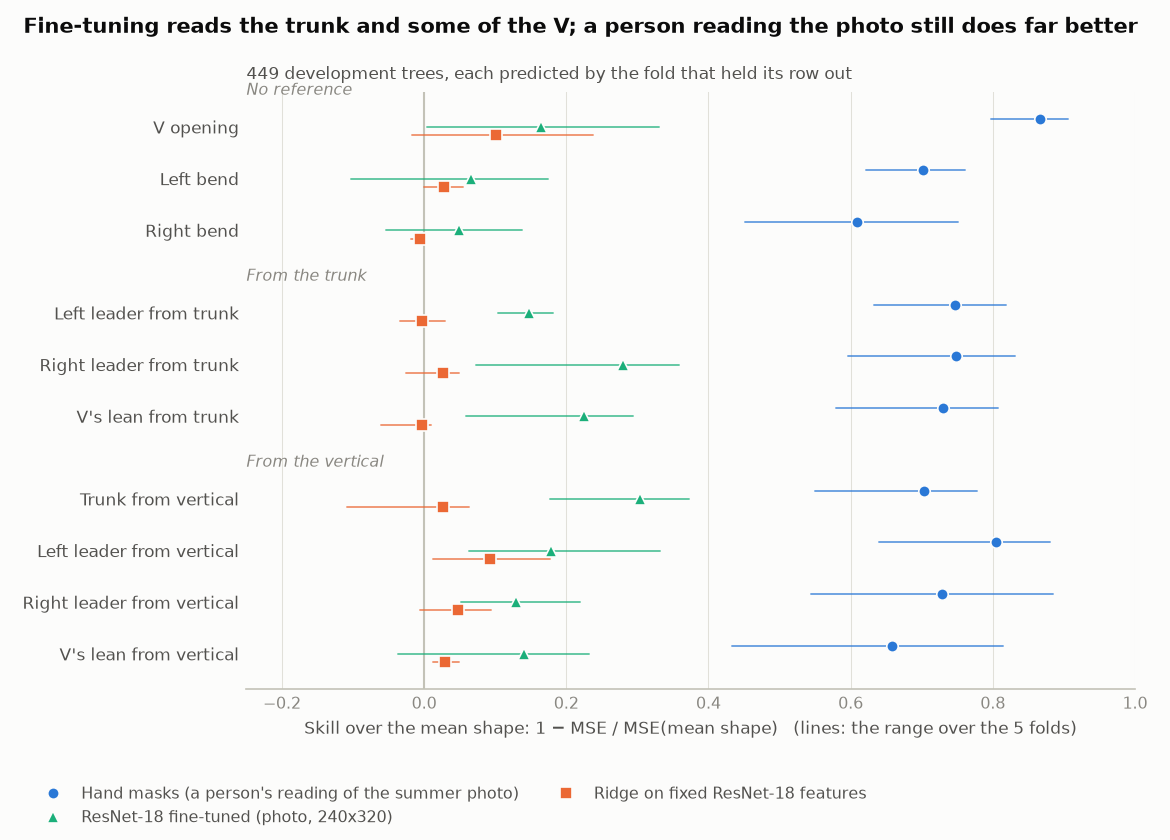
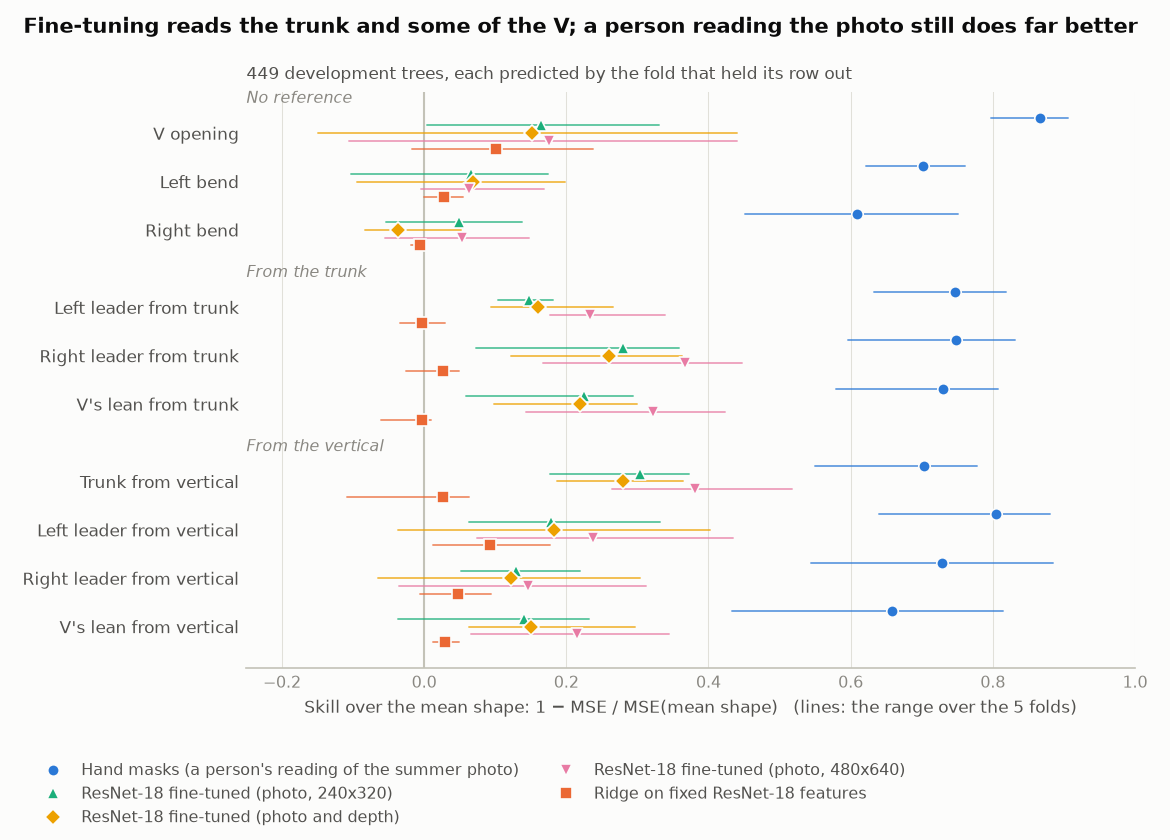
Write up the depth and full-size CNN runs, compared tree by tree
The student's two runs with more input: the summer depth as a fourth channel
adds nothing (no measure improves tree by tree; the right bend gets slightly
worse, p = 0.008), as expected of a smooth canopy surface. The photo at
480x640 raises the skill by 0.06-0.10 on six measures, in 4-5 of 5 folds on
most, and tree by tree significantly on three (the left leader from the trunk,
the left leader's tilt, the V's lean from vertical); the trunk's tilt rises in
all folds (+0.30 to +0.38) by fewer large misses rather than closer typical
trees. The V opening and the bends do not move (+0.18 at best, against +0.87
for the hand masks). All three runs are reported, since choosing the best on
the same folds would flatter it.

Claude-Session: https://claude.ai/code/session_01AjtAHVwQsGigb7XuCmLiB6

diff --git a/docs/results/shape/README.md b/docs/results/shape/README.md
@@ -301,8 +301,55 @@ any result):
   but the gap stays. One row group is much harder: rows 1, 8 and 15, held out
   within fold 5, stay at 1.3 against 0.7–0.8.
 
-`docs/figures/shape_cnn_skill.png` compares the three with the range over the
-folds.
+### More input: the summer depth, and the photo at full size
+
+The student's choice after the first run. The recipe was kept the same:
+- **Depth:** the summer depth as a fourth channel, its first-layer weights
+  starting as the mean of the colour weights, no colour jitter.
+- **Full size:** the photo at 480x640, four times the pixels.
+
+(MAE / skill; ◆ = better than the first run tree by tree, Wilcoxon p < 0.01)
+
+| Measure | Photo, 240x320 | Photo and depth | Photo, 480x640 | Hand masks |
+|---|---|---|---|---|
+| V opening | 8.9° / +0.16 | 8.8° / +0.15 | 8.7° / +0.18 | 3.3° / +0.87 |
+| Left bend | 9.1° / +0.07 | 8.9° / +0.07 | 8.9° / +0.06 | 5.1° / +0.70 |
+| Right bend | 8.6° / +0.05 | 9.1° / −0.04 | 8.7° / +0.05 | 5.2° / +0.61 |
+| Left leader from trunk | 11.8° / +0.15 | 11.5° / +0.16 | 11.2° / +0.23 ◆ | 6.3° / +0.75 |
+| Right leader from trunk | 11.3° / +0.28 | 11.5° / +0.26 | 11.0° / +0.37 | 6.4° / +0.75 |
+| V's lean from trunk | 10.6° / +0.22 | 10.6° / +0.22 | 10.1° / +0.32 | 6.1° / +0.73 |
+| Trunk from vertical | 8.8° / +0.30 | 8.9° / +0.28 | 8.5° / +0.38 | 5.7° / +0.70 |
+| Left leader from vertical | 6.3° / +0.18 | 6.2° / +0.18 | 5.9° / +0.24 ◆ | 3.1° / +0.80 |
+| Right leader from vertical | 6.4° / +0.13 | 6.4° / +0.12 | 6.2° / +0.15 | 3.1° / +0.73 |
+| V's lean from vertical | 4.5° / +0.14 | 4.4° / +0.15 | 4.3° / +0.22 ◆ | 2.7° / +0.66 |
+
+Each run was compared with the first on the same trees (`--replot` with
+several folders; `docs/results/shape_cnn_runs.json`), because the folds'
+skills swing widely: the V opening's from −0.15 to +0.44 within the depth
+run.
+
+- **Depth adds nothing.** No measure improves tree by tree, and the right bend
+  gets a little worse (p = 0.008, lower in all 5 folds). The summer depth is a
+  smooth surface over the canopy (session 9), so it holds no more about the
+  branches than the photo.
+- **The full-size photo helps the trunk and the leaders' tilts a little.**
+  - The skill rises by 0.06–0.10 on six measures, in 4 or 5 of 5 folds on
+    most of them.
+  - Tree by tree it is significant on three: the left leader from the trunk,
+    the left leader's tilt, and the V's lean from vertical.
+  - The trunk's tilt rises in all 5 folds (+0.30 to +0.38), but only 50% of
+    trees are predicted more closely (p = 0.35). Its gain comes from fewer
+    large misses, which the squared error in the skill weighs heavily.
+- **The V opening and the bends do not move** (+0.18 at best, against +0.87
+  for the hand masks).
+- 19 minutes on the student's GPU, against 6 for 240x320.
+
+All three runs are reported. The full-size run is the best on most measures,
+but choosing it on these same folds flatters it slightly. The test rows are
+untouched for one final model.
+
+`docs/figures/shape_cnn_skill.png` compares every model with the range over the
+folds; the learning curves of each run are in `docs/figures/shape_cnn*_training.png`.
 
 ## 6. What this means
 
@@ -312,16 +359,16 @@ folds.
 - **Fixed ImageNet features do not capture it,** whatever the regression on
   top: skill at most about 0.1.
 - **Fine-tuning the network on the winter measures captures some of it:**
-  the trunk well (+0.30), the V less (V opening +0.16), the bends hardly. It
-  fits its 270–360 training photos far better than new rows.
-- **Still open:**
-  1. more input for the same network: the summer depth, or the photo at full
-     size (the student's next choice);
-  2. a segmentation network trained on the hand masks, which session 10 showed
-     are drawn in the summer view and have the winter shape (448 of 448 laid
-     onto the winter traces within 8 px). Its predicted masks would be measured
-     with the same code and scored against the winter traces. This would change
-     "hand masks are for validation only", so it is the student's decision.
+  the trunk well (+0.30; +0.38 at full size), the V less (V opening +0.16 to
+  +0.18), the bends hardly. It fits its 270–360 training photos far better
+  than new rows. The summer depth adds nothing; the full-size photo helps the
+  trunk and the leaders' tilts a little.
+- **Still open:** a segmentation network trained on the hand masks, which
+  session 10 showed are drawn in the summer view and have the winter shape
+  (448 of 448 laid onto the winter traces within 8 px). Its predicted masks
+  would be measured with the same code and scored against the winter traces.
+  This would change "hand masks are for validation only", so it is the
+  student's decision.
 
 ## 7. The trees where the hand masks and the winter traces disagree most
 
@@ -357,7 +404,9 @@ python -m treeskel.shape data/raw --figure docs/figures/shape_lines.jpg   & rem 
 python -m treeskel.shape_model --plots docs/figures                      & rem anywhere: 3 min
 python docs/results/shape/robustness.py                                  & rem anywhere: 5 min
 python -m treeskel.shape_cnn data/raw                                    & rem the student's GPU: 6 min
-python -m treeskel.shape_cnn --replot docs/results/shape_cnn             & rem the figures, anywhere
+python -m treeskel.shape_cnn data/raw --depth                            & rem 6.5 min
+python -m treeskel.shape_cnn data/raw --size 480 640                     & rem 19 min
+python -m treeskel.shape_cnn --replot docs/results/shape_cnn docs/results/shape_cnn_depth docs/results/shape_cnn_480x640   & rem figures and comparison, anywhere
 ```
 
 - The first command writes `data/shape/`: the table of measures, the summer
